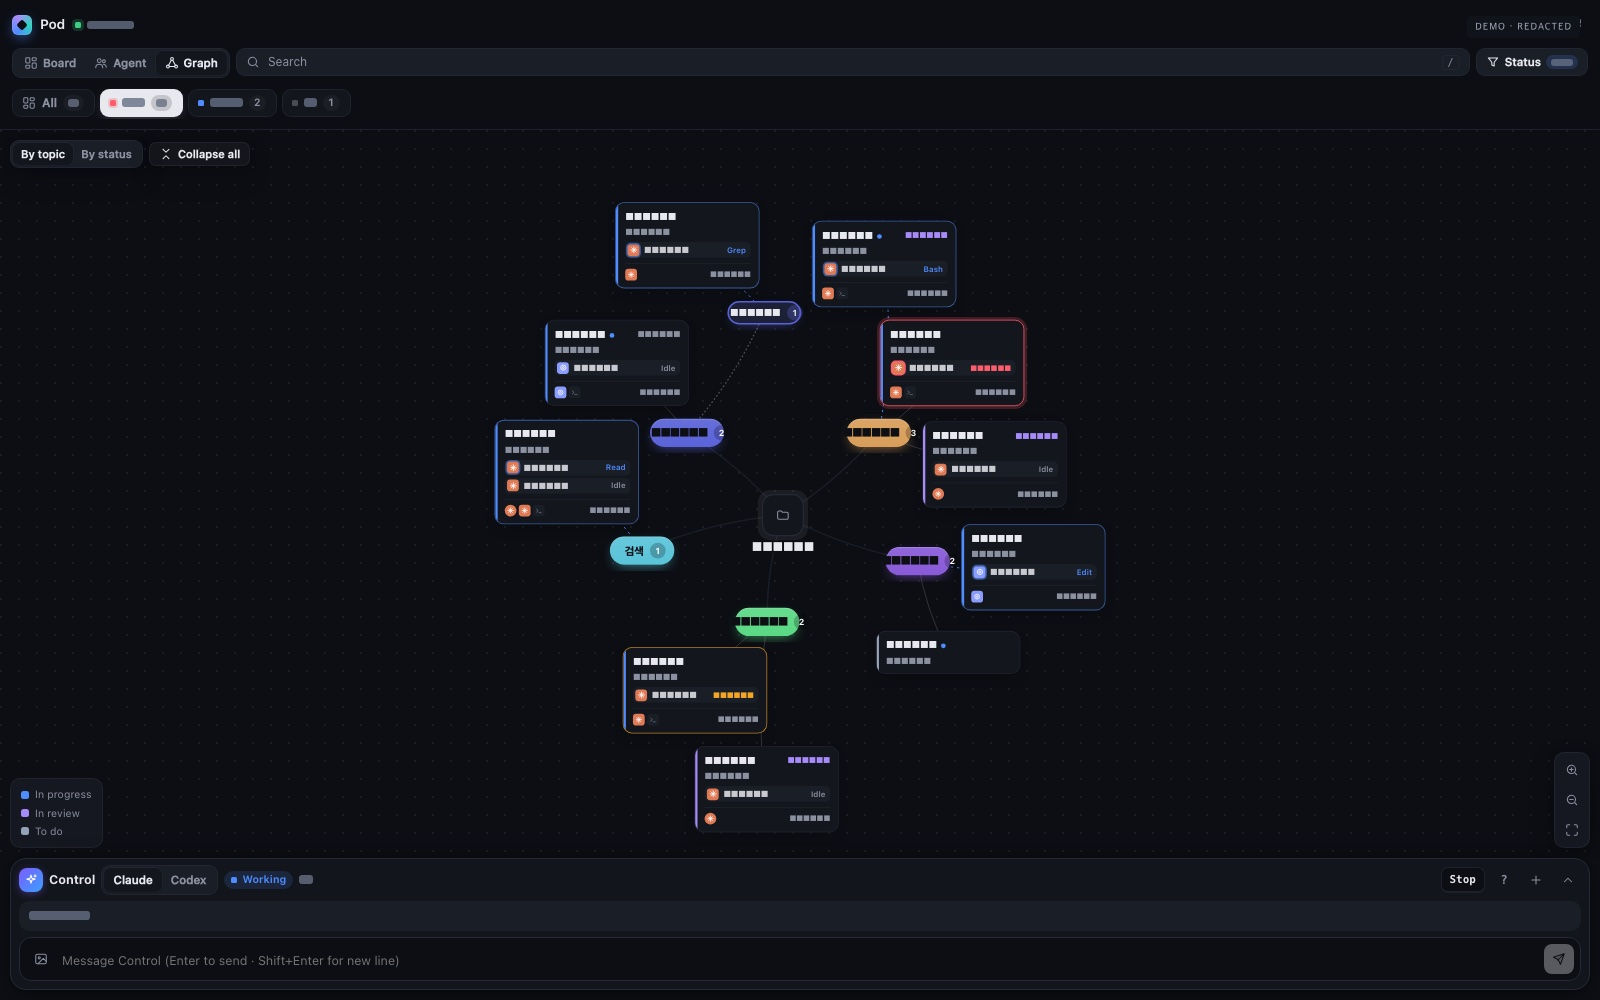
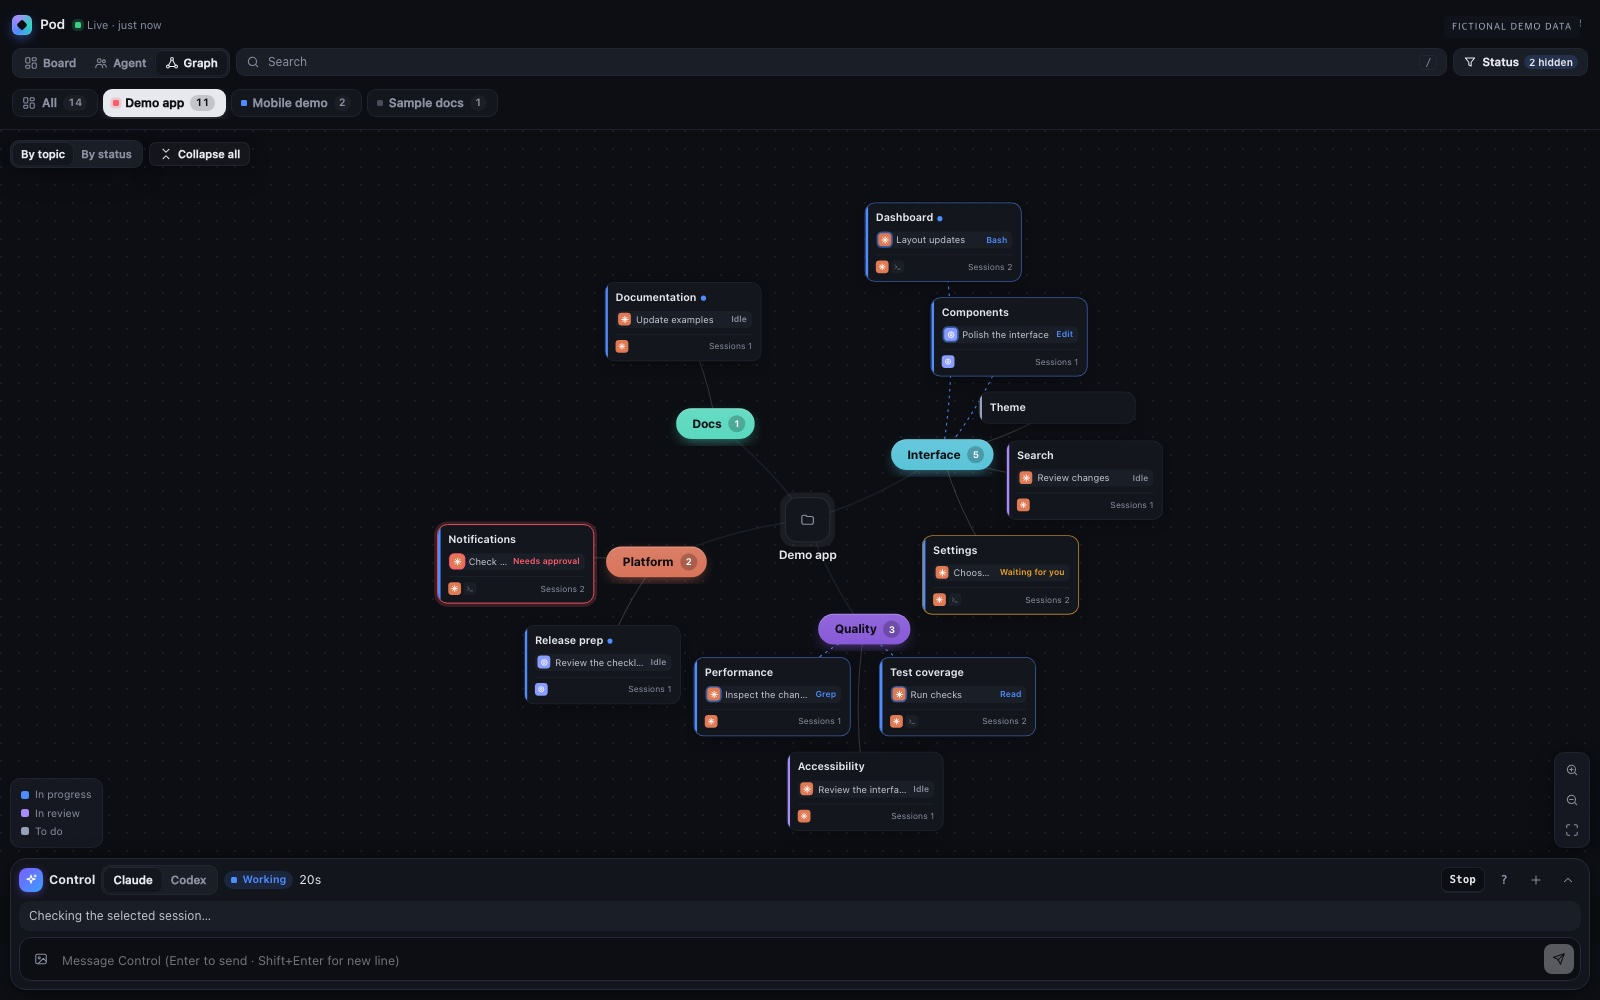
docs: use English-first examples and readable private-safe screenshots

diff --git a/README.md b/README.md
@@ -1,155 +1,102 @@
 # Pod
 
-**See and steer every Orca workspace and agent session from one panel.**
+**See and steer your Orca workspaces and agent sessions from one panel.**
 
-![Pod graph view](images/graph.jpg)
+![Pod graph with fictional example workspaces](images/graph.jpg)
 
-Pod is an [Orca](https://www.onorca.dev) sidebar panel that lays out your workspaces as a map —
-repository in the middle, topics around it, workspace cards around the topics — and lets you work
-from there: read a Claude session like a chat, answer approval prompts, send instructions, start
-new sessions, close leftover terminal tabs, and drag cards between topics.
+Pod brings your repositories, topics, workspaces, and agent sessions onto one map. See what needs your attention, open a session without leaving the graph, and send the next instruction from the same place.
 
-- **Graph**: repository → topics (and sub-topics) → workspace cards with their live sessions. Collapse topics,
-  throw cards onto another topic, and it stays readable with 100+ workspaces (card budget, far-zoom view).
-- **Session window**: opens inside the graph. Claude sessions render as a conversation (from Claude Code's
-  local transcript); terminals render as a live screen. Keys, interrupt and an instruction box.
-- **Control**: a Claude session run by Pod itself (`claude -p`, streamed) that sees every session through a live map
-  and relays your instructions — to terminal agents via `orca terminal send`, to chat sessions via Claude Code messages.
-  It lives in the bottom bar (Enter to send, images allowed); "Send to control" on any session drops a reference in.
-  Its Bash is limited to a few read/send `orca` commands, and MCP tools are off.
-- **Images**: paste, drop or pick images in any instruction box.
-- **Board**: workspaces grouped by status or topic; drag rows between groups.
-- **Topics**: extract them with AI (`claude -p`) or make your own; new workspaces are sorted by keywords.
+## What you can do
 
-The UI is in Korean. 화면 문구는 한국어입니다.
+- **Explore the graph.** Group workspaces by topic or status, collapse groups, zoom, and drag cards between topics.
+- **Find sessions that need you.** The board and agent views surface approval requests, unanswered questions, and active sessions.
+- **Work inside the map.** Open a session window, read Claude conversations, view terminal output, send instructions, and attach images.
+- **Coordinate with Control.** Ask for a status update or relay a message to a selected session. Use the ✦ button on a session row to add its reference to the input.
+- **Keep things organized.** Create topics and subtopics, start sessions, edit workspace notes, and close leftover terminal tabs.
 
-### Requirements
+## A closer look
 
-- Orca 1.4.248 or later (macOS), with the `orca` command-line tool on your machine.
-- Optional: [Claude Code](https://claude.com/claude-code) for the conversation view and AI topic extraction.
+### Session window
 
-### Install
+Read a conversation and send a follow-up without navigating away from the graph.
 
-From Orca's plugin list, or load it from a clone:
+![Session window with a short fictional conversation](images/session.jpg)
+
+### Control
+
+Use the bottom bar to check progress and coordinate sessions. Expand it to read the conversation. Press **Enter** to send and **Shift+Enter** for a new line.
+
+![Control showing a generic example exchange](images/control.jpg)
+
+### Board
+
+See sessions that need attention first, followed by workspaces grouped by topic or status.
+
+![Board with generic workspace names and agent states](images/board.jpg)
+
+**Screenshot privacy:** every screenshot is generated from fictional demo data. Names and conversations are generic examples. Real workspace names, branches, pull request details, file paths, commands, and internal discussions are not included.
+
+## Requirements
+
+- Orca **1.4.248 or later** on macOS.
+- The `orca` command available in your terminal.
+- A signed-in Claude Code CLI for Control and AI topic suggestions.
+
+## Install
+
+Find Pod in Orca's plugin list, or load a local clone:
 
 ```sh
-git clone https://github.com/Erlhon9/orca-pod && orca plugin dev load ./orca-pod
+git clone https://github.com/Erlhon9/orca-pod
+orca plugin dev load ./orca-pod
 ```
 
-Pod asks for workspace, agent, terminal and storage access because it reads your workspaces and
-sends input to sessions on your behalf. Pod itself sends nothing over the network; AI topic
-extraction runs your local `claude` CLI with workspace names, branches and PR titles.
+Review the permissions shown by Orca before approving the plugin. Keep a development folder in place while it is registered; removing it also removes the local plugin.
 
----
+## Get started
 
-Orca에서 관리하는 워크스페이스와 에이전트를 한 화면에서 보고 조작하는 사이드바 패널.
+1. Open **Pod** in the Orca sidebar.
+2. Choose a repository and switch between **Graph**, **Board**, and **Agent** views.
+3. Click a workspace or session to open its window.
+4. Use the session's ✦ button to add it to Control, then write what you want to send.
 
-## 용어
+| Shortcut | Action |
+| --- | --- |
+| `/` | Search |
+| `i` | Focus the Control input |
+| `[` / `]` | Switch repositories |
+| Enter | Send a Control message |
+| Shift+Enter | Add a new line |
 
-| 말 | 뜻 |
-|---|---|
-| 디렉토리 | 저장소(예: my-app). 그래프 가운데 폴더 |
-| 주제 · 하위 주제 | 워크스페이스를 묶는 이름(예: 결제 › 환불). 그래프의 색 알약 |
-| 워크스페이스 | Orca 워크트리 하나. 그래프의 카드, 보드의 행 |
-| 세션 | 워크스페이스 안에서 도는 Claude·Codex 대화나 터미널. 카드 안의 줄, 작업 창의 탭 |
+## Sessions and delivery
 
-## 화면
+Claude terminal sessions can appear as conversations using their local transcripts. Codex sessions and other terminals use the terminal view when a conversation view is unavailable. Open a session in Orca when you need its full native interface.
 
-- **보드**: 지금 움직이는 에이전트 카드 → 디렉토리(저장소)별 워크스페이스를 상태별로 묶어 보여 준다.
-  하위 워크스페이스는 부모 아래 들여 쓴다.
-- **에이전트**: 확인 필요 / 작업 중 / 대기 중인 세션 / 최근 24시간 종료.
-- **그래프**: 가운데 디렉토리 둘레에 주제(주제가 없는 디렉토리는 상태)가 색을 채운 알약으로 놓이고, 그 바깥쪽에
-  워크스페이스 카드가 모인다. 카드 안에 제목·PR 번호·요약(메모 → PR 제목 → 브랜치)과 살아 있는 세션(이름·상태·지금 도구)이 들어 있어
-  호버하지 않아도 읽힌다. 세션 줄을 누르면 그 세션이, 카드를 누르면 워크스페이스가 그래프 안 창으로 열린다. 주제에 올리면 `+`(새 워크스페이스 또는 하위 주제),
-  카드에 올리면 `+`(세션 추가), 가운데 폴더를 누르면 새 최상위 주제. 하위 주제는 상위 주제 바깥쪽에 점선으로 매달리고
-  색은 맨 위 주제 계열을 따르며, 상위 주제 숫자는 하위까지 합친다. 보드에서는 상위 바로 아래 `상위 › 하위` 묶음으로 들여 쓴다. 승인 대기 카드는 빨갛게 깜빡인다. 휠로 확대, 빈 곳을 끌어서 이동.
-  카드를 끌어 다른 주제에 놓으면 주제가 바뀐다(상태로 나뉜 디렉토리면 상태가 바뀐다). 끄는 동안 놓을 수 있는 주제는 점선으로,
-  가까이 간 주제는 커지며 표시되고, 놓을 곳이 아니면 제자리로 튕겨 돌아간다. 「기타」에 놓으면 키워드가 맞아도 기타에 남는다.
-  배치가 바뀔 때 카드는 이전 자리에서 미끄러져 가고, 새 카드는 자기 주제에서 피어난다.
-- **주제**: 디렉토리 안을 상태별/주제별로 바꿔 묶는다. `AI로 주제 뽑기` 는 `claude -p`(sonnet, 도구·MCP 없이 한 번)에
-  워크스페이스 이름·브랜치·PR 제목·대화 제목을 넘겨 주제와 분류 키워드를 받아 플러그인 저장소에 둔다.
-  새 워크스페이스는 키워드로 자동 분류되고, 주제·키워드는 `편집`에서, 워크스페이스별 주제는 메뉴에서 직접 정한다.
-- **그래프 안 작업 창**: 그래프에서 세션이나 워크스페이스를 누르면 페이지가 넘어가지 않고 그래프 안에 창이 뜬다.
-  넓으면 누른 노드 반대편에 세로로, 좁으면 아래쪽 시트로. 노드 자리에서 커지고 닫으면 그 노드로 줄어든다. 고른 노드는 강조되고
-  확대 정도를 유지한 채 남은 공간 가운데로 옮겨진다. 창 안에서 다른 노드를 누르면 내용만 바뀌고, `크게 보기`로 전체 작업실이 된다.
-- **관제**: 메인 화면 아래 줄. Pod 이 직접 띄우는 Claude(`claude -p`, stream-json)로, 세션 지도를 보고 다른 세션에 지시나 대화를
-  전달한다(터미널 에이전트는 `orca terminal send`, 대화창 세션은 Claude Code 쪽지). 답은 글자 단위로 흘러나오고, 접으면 상태·마지막 답 한 줄,
-  펼치면 대화 전체. Enter 보내기·Shift+Enter 줄바꿈, 사진 첨부, 중단, 새 대화. 세션 호버 카드·워크스페이스 메뉴의 `관제에 보내기`가
-  그 세션 참조를 입력창에 넣는다. 관제의 Bash 는 정해진 `orca` 조회·보내기 명령만 통과하고(셸 터미널에는 못 보냄), 외부 연동(MCP)은 끈다.
-  `i`로 입력창에 바로 간다. 작업 창이 열리면 숨는다.
-- **사진 첨부**: 입력창에 붙여넣기·끌어놓기·고르기. 터미널 세션에는 임시 파일 경로로, 관제에는 바로 넘긴다.
-- **대화 보기**: Claude 세션은 터미널 화면 대신 대화 기록(`~/.claude/projects/…/<세션>.jsonl`)을 읽어 Orca 대화창처럼 보여 준다.
-  내 메시지는 말풍선, 답변은 제목·목록·표·코드를 갖춘 문서로, 이어진 도구 호출은 `도구 N개` 한 줄로 접는다(펼치면 하나씩).
-  턴이 끝나면 걸린 시간을 구분선으로, 작업 중이면 마지막 도구와 경과 시간을, 승인 대기면 터미널의 질문을 카드로 띄운다.
-  세션 머리의 버튼으로 터미널 화면과 오간다. 기록을 못 찾거나 Codex 세션이면 터미널 화면을 보여 준다.
-  첫 요청 전의 새 세션은 빈 「새 대화」로 기다린다. 셸 탭은 머리의 버튼으로 Orca 의 그 탭으로 바로 간다.
-- **작업실**: 보드·에이전트 목록에서 워크스페이스나 에이전트를 누르면 그 자리에서 펼쳐지듯 열리고, 닫으면 원래 자리로 접혀 들어간다.
-  탭 오른쪽 `+ 세션`으로 Claude·Codex·터미널을 새로 열면 바로 그 탭이 선택된다(에이전트는 터미널로 띄운다). 상태·메모·PR, 세션 탭(에이전트·터미널), 터미널 화면 실시간 미러,
-  키 버튼(⏎ Esc ↑ ↓ 1 2 3 Tab 중단), 지시 입력창. 대화창 세션은 마지막 요청·답변을 보여 주고 Orca 로 넘긴다.
+Control can relay instructions to Claude and Codex terminal sessions. Claude-to-Claude chat messaging uses Claude Code messages. A message being accepted or queued does not mean the receiving agent has finished the task.
 
-## 세션 · 열린 탭
+Shell terminals are not message targets for Control.
 
-- 워크스페이스의 세션(Orca 대화창 세션, 에이전트 터미널, 셸, 초기 설정)을 따로 본다. 그래프 카드 아래 세션 줄에 칸으로 보이고
-  (대화창 세션은 동그라미, 끝난 탭은 점선으로 흐리게), 올리면 목록이 뜬다. 보드·그래프의 워크스페이스 호버 카드에도 있다.
-- 대화창 세션은 답을 마치면 Orca 가 늘 「종료」로 알려 주므로, 중단되지 않고 7일 안에 끝난 것은 「대기」로 본다.
-- 줄을 누르면 그 탭을 작업 창에서 열고, `×`로 닫는다. 끝난 탭은 한 번, 살아 있는 탭은 두 번 눌러야 닫힌다.
-  `끝난 탭 N개 닫기`로 한 워크스페이스의, 그래프 툴바 `끝난 탭 N`(두 번 누르기)으로 고른 디렉토리 전체(숨긴 상태 포함)의 끝난 탭을 한 번에 치운다.
-- 작업 창 탭에도 `×`가 있고, 끝난 터미널을 고르면 `탭 닫기` 버튼만 보인다.
+## Development preview
 
-## 많을 때
+The working branch also includes:
 
-- 그래프 왼쪽 위에서 주제별/상태별을 고른다(보드의 묶음 방식과 같이 바뀐다).
-- 주제 알약을 누르면 접히고(카드가 주제 속으로 빨려 들어간다), 접힌 주제는 카드 더미 모양에 작업 중·확인 필요 수가 붙는다.
-  다시 누르면 펼쳐지며 화면이 그 주제로 날아간다. `모두 접기/펼치기`도 있다.
-- 한 디렉토리에 워크스페이스가 30개를 넘으면 화면 전체에 카드 36장 예산을 두고 확인 필요 → 작업 중 → 최근 순으로 채운다.
-  한 장도 못 받은 주제는 접히고, 큰 주제는 10장까지만 보이며 나머지는 `외 N개`(누르면 전부)로 묶는다. 직접 펼치거나 접은 주제는 그대로 기억한다.
-- 많이 축소하면 카드에는 제목만 크게 남고, 주제·디렉토리 이름표는 반대로 커져 멀리서도 읽힌다.
-- 보드는 묶음마다 20줄까지만 그리고 나머지는 `N개 더 보기`로 접는다. 검색·필터 중에는 모두 보인다.
-- 그래프는 그리는 카드 수가 예산으로 묶여 있어 워크스페이스가 수백 개여도 배치 계산이 늘지 않는다.
+- **Claude / Codex Control switching.** Continue with the other provider when usage runs out, carrying recent conversation context without calling the previous provider or automatically resending old instructions.
+- **English-first UI.** English is the default for new users; Korean and an automatic language option remain available.
 
-## 손맛
+These controls appear in the demo screenshots. The screenshot and documentation releases do not publish these runtime changes. Codex Control currently reads chats' latest request and reply but cannot send messages to chat sessions. Both providers can send to supported terminal sessions.
 
-- 보드에서 워크스페이스 행을 끌어 다른 묶음(상태별이면 상태, 주제별이면 주제)에 놓으면 바뀐다. 끄는 행은 움직이는 방향으로 기울고,
-  놓을 수 있는 묶음은 테두리, 손 아래 묶음은 강조된다. 묶음 머리로 빨려 들어가며 색 조각이 터지고 `+1`이 떠오른다.
-  놓을 곳이 아니면 튕겨 돌아가고, 위·아래 끝으로 가면 저절로 굴러간다.
-- 그래프 카드는 끌면 속도만큼 기울고, 주제 쪽으로 던지면 그 주제에 꽂힌다.
-- 세션이 승인·답변 대기가 되면 카드가 흔들리고, 일을 마치면 `끝!`, 워크스페이스가 완료되면 축하 조각이 터진다.
-- 관제에 보낸 말은 관제 쪽으로 날아가고, 답을 마치면 관제 줄이 살짝 흔들린다. 버튼·카드는 누르면 눌리고 올리면 뜬다.
-- 시스템의 '동작 줄이기'가 켜져 있으면 효과를 끈다.
+## Permissions and data
 
-## 조작
+Pod requests access to workspaces, agents, terminals, and its own storage so it can display session state and perform the actions you select. Sending an instruction can cause the receiving agent to act with that session's permissions.
 
-| 어디서 | 무엇을 |
-|---|---|
-| 워크스페이스 행 클릭 | 작업실 열기 (Orca 화면 전환은 `Orca에서 열기`) |
-| 에이전트 뱃지 클릭 | 그 에이전트를 고른 채로 작업실 열기 |
-| 에이전트 뱃지 호버 | 상태·지속 시간, 마지막 요청, 지금 실행 중인 도구, 마지막 답변, 터미널 마지막 줄 |
-| 카드의 보내기 / 중단 | 터미널 에이전트에 메시지 전송 / 중단 신호(두 번 눌러야 실행) |
-| 행의 `⋯` 또는 우클릭 | 작업실, Orca에서 열기, 상태·주제 변경, Claude·Codex 시작, 하위 워크스페이스, 메모 편집, 읽음 표시, PR 열기 |
-| 디렉토리 머리의 `+` | 새 워크스페이스(에이전트와 첫 지시를 같이 줄 수 있다) |
-| 툴바 `상태`, 디렉토리 범례의 상태 칩 | 보일 워크스페이스 상태 고르기(기본: 완료 숨김). 숨긴 상태여도 에이전트가 작업 중·확인 대기면 보이고, 검색할 때는 숨긴 상태도 찾는다 |
-| `/` | 검색 |
-| `i` | 관제 입력창으로 |
-| 위쪽 디렉토리 칩, `[` `]` | 디렉토리 전환(보드·에이전트·그래프에 모두 적용). 넓은 패널에서는 상태별 묶음이 칸반처럼 나란히 놓인다 |
+AI features use your installed agent CLI and its account. Context passed to those features is processed by the selected provider. Topic suggestions include workspace metadata; Control uses session information to resolve the targets you request.
 
-## 구조
-
-- `src/worker.ts` — `orca worktree ps`·`orca terminal list` 를 읽어 스냅샷을 만들고, 조작은 `orca` CLI
-  (`terminal send/switch`, `worktree set/create`, `agent launch`)와 호스트 API(`workspace.list/open`)로 실행한다.
-  에이전트·워크스페이스 이벤트가 오면 다시 읽어서 열린 패널에 보낸다.
-- `src/model.ts` — CLI 결과 → 화면용 스냅샷(순수 함수, 테스트 대상).
-- `src/runtime.ts`, `src/control.ts` — 관제 실행(stream-json 주고받기·이어 가기)과 지침·세션 지도·명령 제한 훅.
-- `src/panel/` — HTML 패널(빌드 없이 Orca가 TS를 변환). `app.ts` 화면, `detail.ts` 작업실, `graph.ts` 그래프, `overlays.ts`
-  호버 카드·메뉴·시트·토스트, `style.css` Orca 테마 변수 기반 스타일.
-
-## 개발
+## Development
 
 ```sh
-orca plugin dev watch . --check --shot ./.orca/shots --json   # 저장할 때마다 다시 불러오고 화면을 찍는다
-orca plugin test . --json                                      # src/*.test.ts
+orca plugin dev watch . --check --shot ./.orca/shots --json
+orca plugin test . --json
 orca plugin validate . --json
 ```
 
-CLI 경로는 `ORCA_CLI` 환경 변수 → `/usr/local/bin/orca` → `/opt/homebrew/bin/orca` → `PATH` 순으로 찾는다.
-
-Screenshots use synthetic demo data with workspace names, identifiers, commands and conversation text redacted.
+Public screenshots are generated with `tools/public-screenshots.sh` in the development repository. The capture uses fictional fixtures and does not query live workspaces. Review the images before publishing; the publisher checks their recorded hashes.
